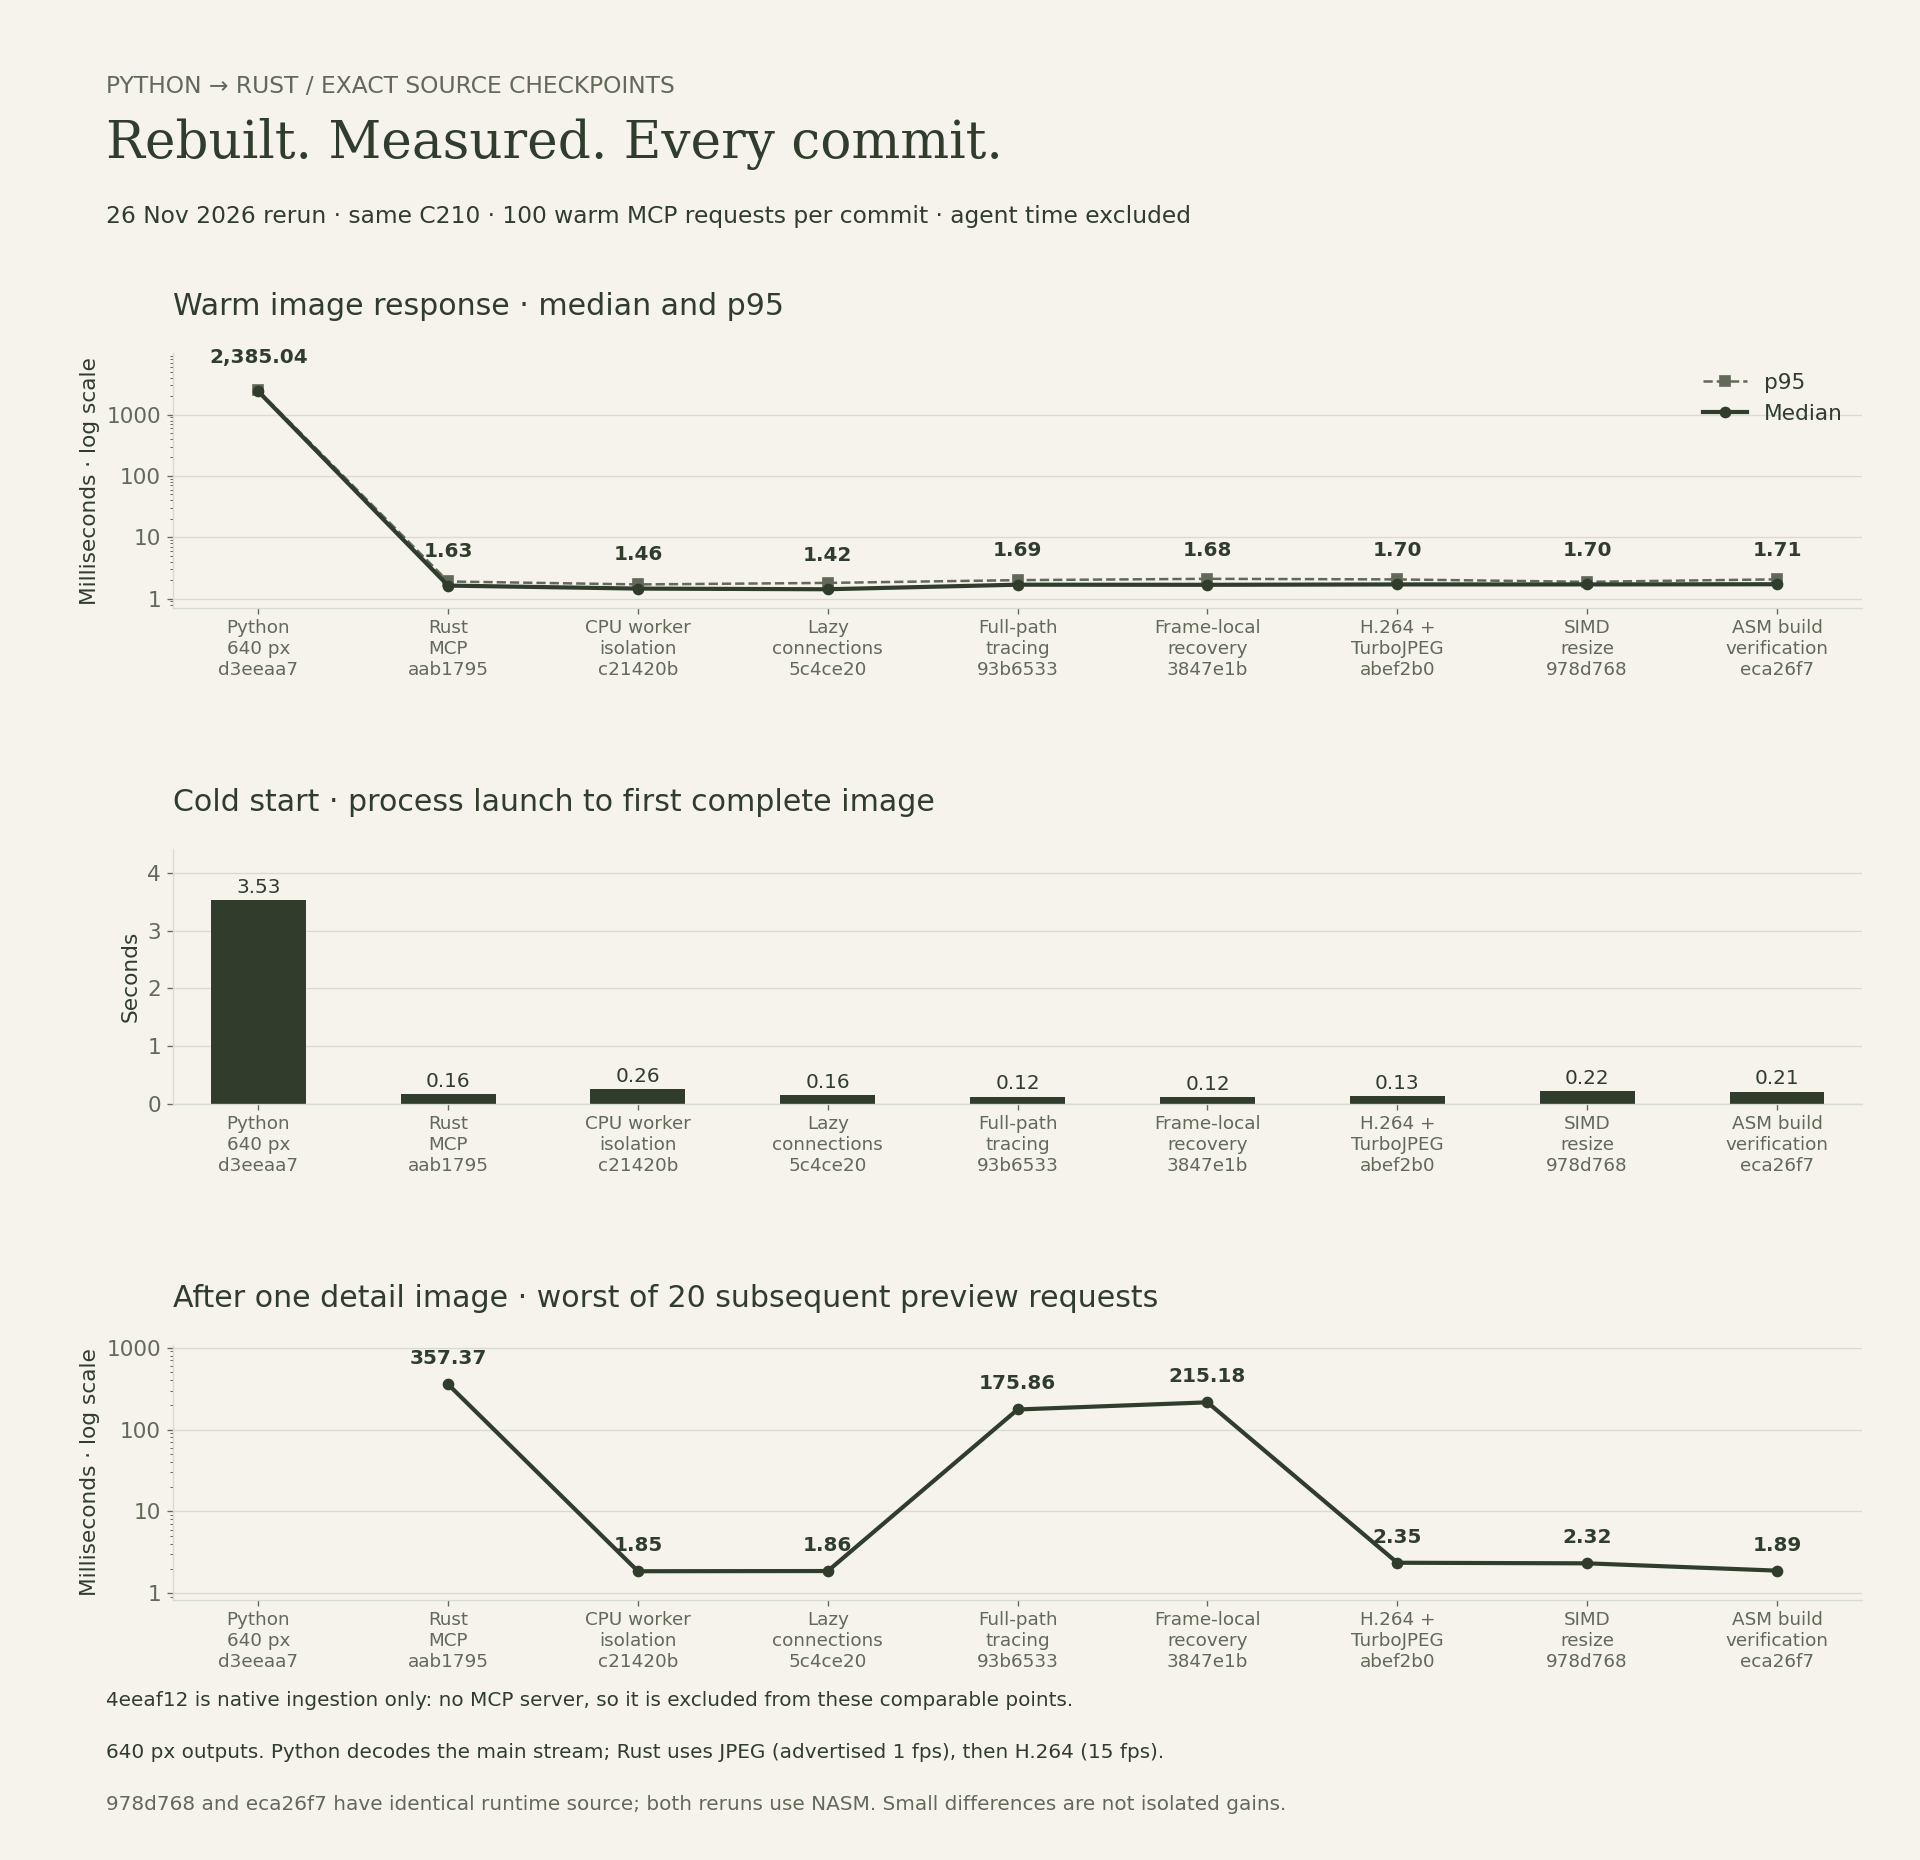
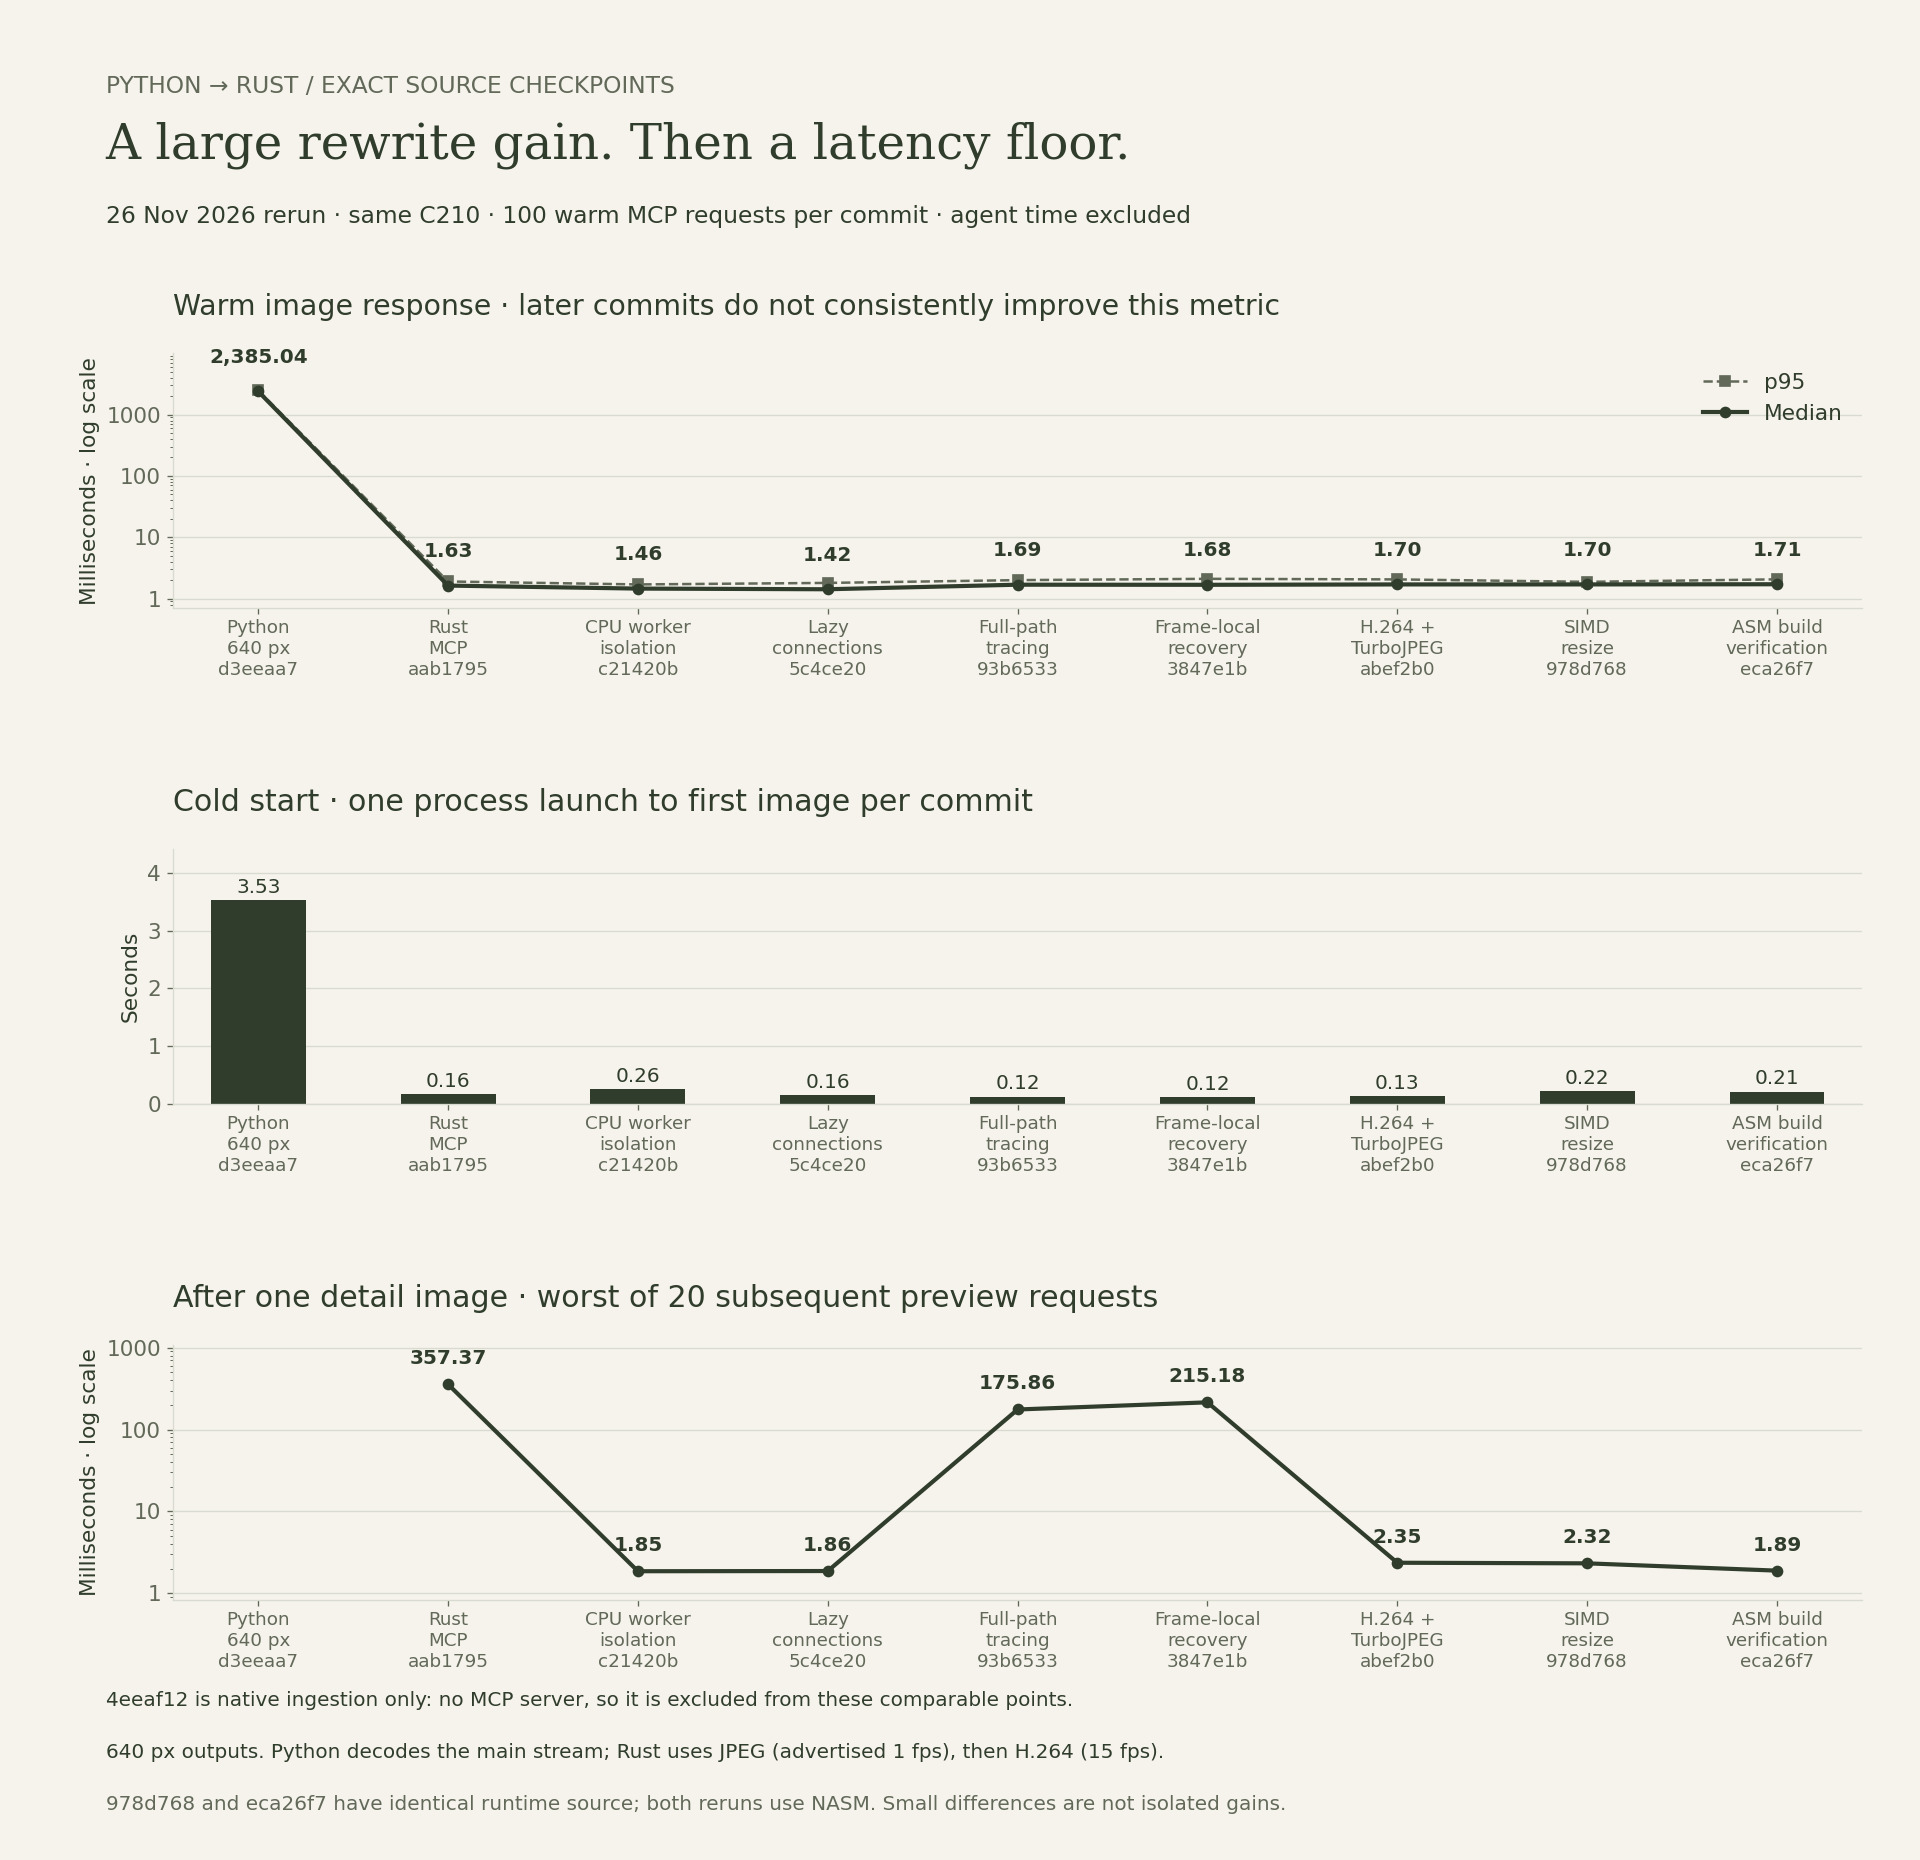
Correct latency narrative and report controlled tracing overhead

Changed region(s): [[0.0938, 0.1559, 0.6562, 0.1871], [0.0625, 0.0624, 0.5938, 0.0935], [0.1875, 0.4054, 0.5312, 0.4366]]

diff --git a/posts/2026-11-26-peek-seek-rsi.md b/posts/2026-11-26-peek-seek-rsi.md
@@ -35,7 +35,7 @@ verified the assembly symbols in the resulting archive.
 
 ![Native Rust video pipeline: asynchronous RTSP ingestion, CPU codec workers, and a latest-frame-only buffer](/assets/rust-pipeline.png)
 
-## Every engineering commit, measured
+## A large rewrite gain, then a latency floor
 
 We rebuilt **all ten source commits** on 26 November, then ran 100 stationary
 preview requests per complete MCP implementation on the same C210. These are
@@ -44,16 +44,30 @@ fresh reruns, not reconstructed October timings. The camera now runs firmware
 
 ![Per-commit measurements: warm MCP median and p95, cold startup, and preview stalls after a detail image](/assets/commit-history.png)
 
-The initial rewrite moved the median from **2,385 ms to 1.63 ms**. Warm reads
-then stayed near 1.4–1.7 ms. Later improvements show up elsewhere: isolating codec
-work reduced the worst of 20 post-detail previews from **357 ms to 1.85 ms** in
-this run. JPEG still produced occasional stalls; the H.264 commit's worst warm
-request was **2.50 ms**, and its worst post-detail preview was **2.35 ms**.
+The initial rewrite moved the median from **2,385 ms to 1.63 ms**. The fastest
+later checkpoint reached **1.42 ms**; the final one measured **1.71 ms**, about
+**21% higher**. These measurements do **not** demonstrate continuous improvement
+in cached-response latency.
 
-That is a cache-read floor, not 1,000 camera frames per second. Python opens the
+The later work addressed other costs. Isolating codec work reduced the worst of
+20 post-detail previews from **357 ms to 1.85 ms** in this run. Stalls still
+appeared in subsequent JPEG runs; after switching to H.264, the observed worst
+warm request was **2.50 ms**, and the worst post-detail preview was **2.35 ms**.
+Those are sampled observations, not guaranteed bounds.
+
+Tracing also costs time. A separate control held the final binary and camera
+settings fixed across six alternating on/off blocks of 100 requests. With
+tracing, block medians were **1.80–1.81 ms**; without, **1.67–1.68 ms**. That
+establishes overhead in this control, not an explanation for the entire
+cross-commit increase. [Tracing control data](https://github.com/Belval/onvif-mcp/blob/main/benchmarks/commit-history/tracing-control-2026-11-26.json)
+
+A cached response does not measure the whole vision pipeline. Python opens the
 main stream and downsizes it; Rust maintains preview streams and returns the
-latest buffered image. H.264 adds a configured 15 fps preview source. This
-stationary test does not isolate SIMD's benefit on images that need resizing.
+latest buffered image. H.264 adds a configured 15 fps preview source. This test
+skips resizing at 640 px, so it cannot establish SIMD's benefit. All fresh builds
+use NASM, so it cannot recover the original assembly-build speedup either.
+The ten commits document engineering iterations; they are not ten demonstrated
+latency wins.
 
 <details markdown="1">
 <summary>Read every commit's timings and measurement boundaries</summary>
